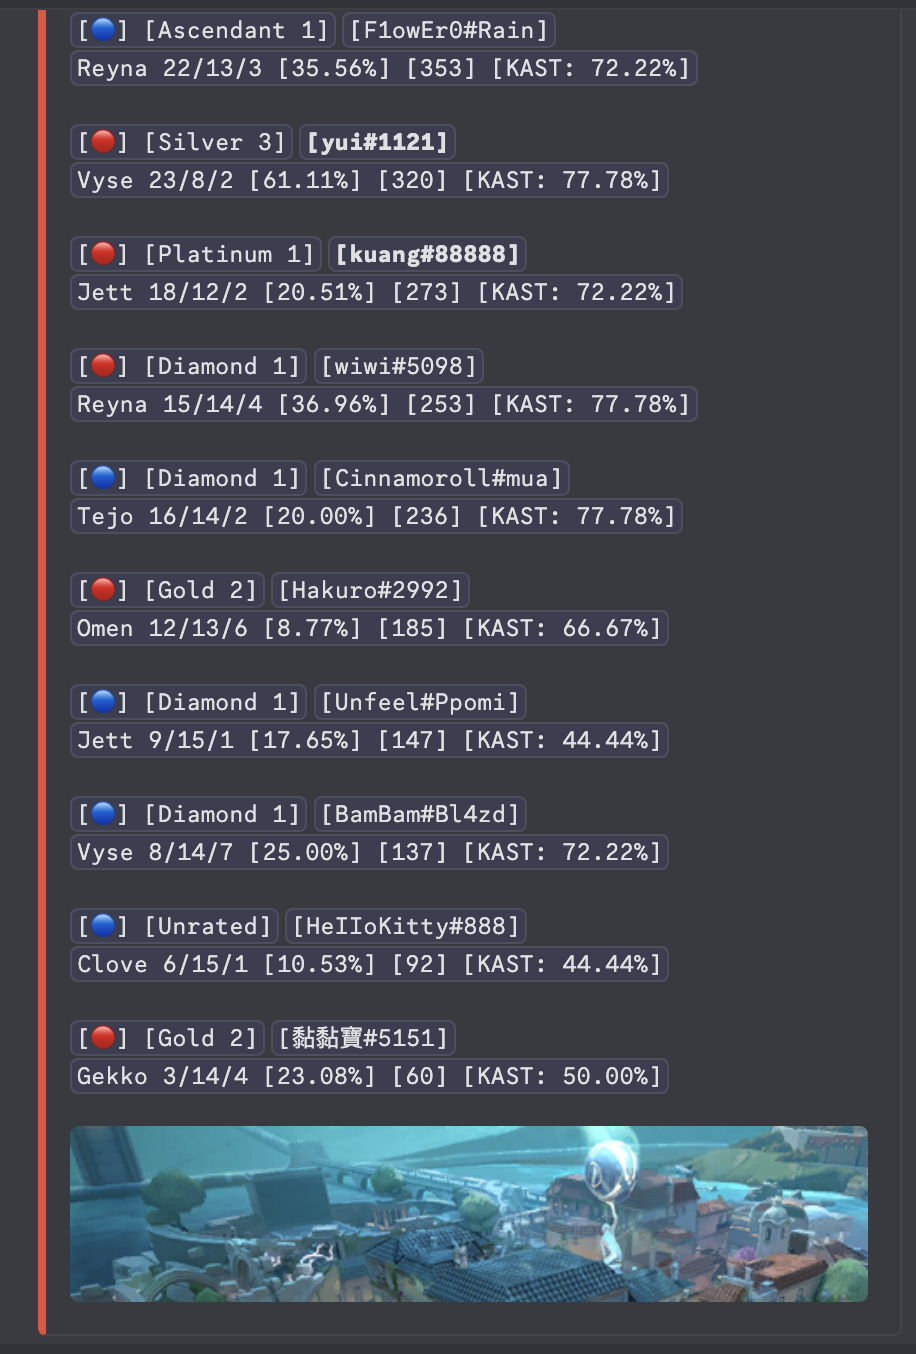
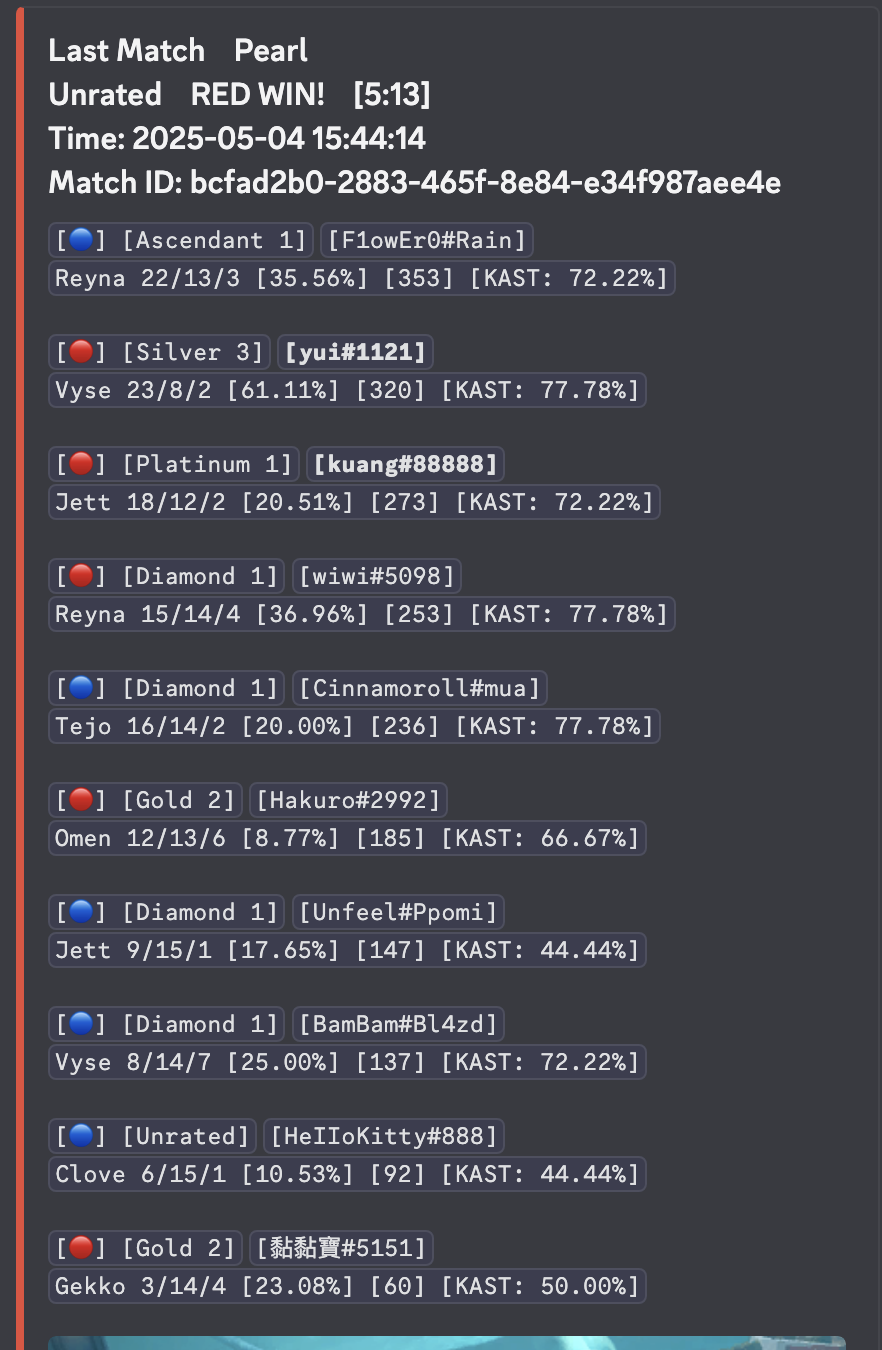
Update Readme

diff --git a/README.md b/README.md
@@ -10,8 +10,28 @@ We have integrated the [Valorant API from Henrik-3](https://github.com/Henrik-3/
 
 OutPut Example:
 <p>
-    <img src="https://github.com/Ian-I-Chien/Valorant-Tracker-Bot/blob/main/pic/output_example.png" alt="Output Example" width="300"/>
+    <img src="https://github.com/Ian-I-Chien/Valorant-Tracker/blob/main/pic/output_example.png" alt="Output Example" width="300"/>
 </p>
+
+### OutPut Architecture:
+
+| Field         | Description                              |
+|---------------|------------------------------------------|
+| Match Date    | Date and time of the match               |
+| Map           | The map played (e.g. Pearl)              |
+| Match Type    | Type of match (Unrated, Ranked, etc.)    |
+| Result        | Win or Lose, with score if available     |
+| Player Name   | In-game name and tag                     |
+| Rank          | Player's rank at the time of the match   |
+| Agent         | The agent used in the match              |
+| K             | Kills                                    |
+| D             | Deaths                                   |
+| A             | Assists                                  |
+| K/D/A         | Combined stat format                     |
+| HS%           | Head shoot percentage                      |
+| ACS           | Average Combat Score                     |
+| KAST          | Percentage of rounds with kill, assist, survived, or traded |
+
 
 ## Environment:
 This bot is running on R-PI3 with python version 3.11.2
